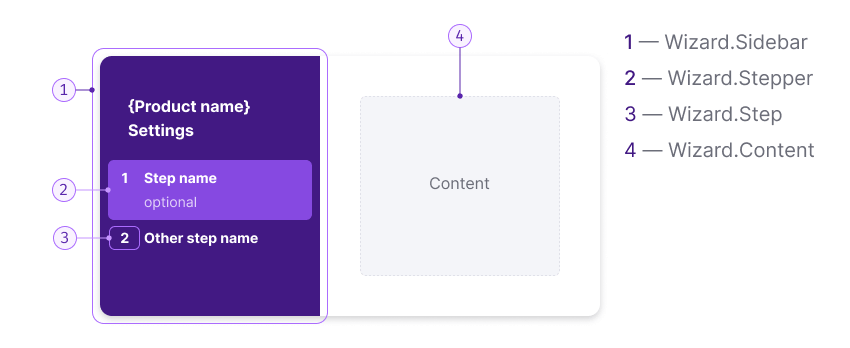
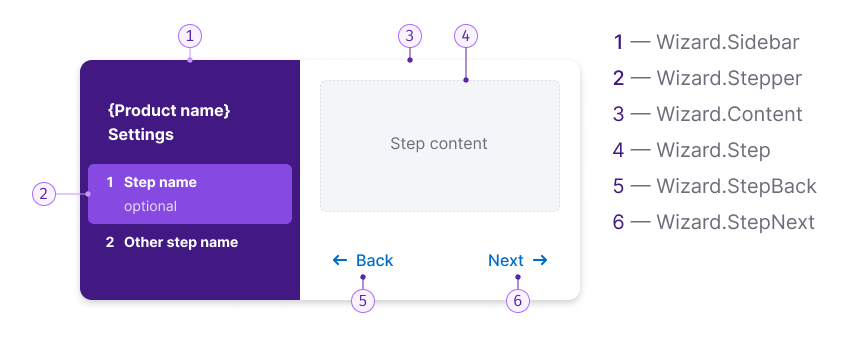
[docs] Updated Wizard examples and docs

diff --git a/website/docs/components/wizard/examples/custom_step.tsx b/website/docs/components/wizard/examples/custom_step.tsx
@@ -3,24 +3,25 @@ import Wizard from 'intergalactic/wizard';
 import Button from 'intergalactic/button';
 import { Text } from 'intergalactic/typography';
 import { Flex } from 'intergalactic/flex-box';
-import ArrowRight from 'intergalactic/icon/ArrowRight/m';
-import ArrowLeft from 'intergalactic/icon/ArrowLeft/m';
 import Input from 'intergalactic/input';
 
 const Step1 = React.forwardRef(function (_props, ref: React.Ref<HTMLDivElement>) {
   return (
-    <Flex ref={ref} direction='column'>
-      <Input mb={4}>
-        <Input.Value placeholder='Your name' />
+    <Flex ref={ref} direction='column' gap={4}>
+      <Text size={500} tag='h3'>
+        Keywords
+      </Text>
+      <Input>
+        <Input.Value placeholder='Keyword 1' />
       </Input>
       <Input>
-        <Input.Value placeholder='Your email' />
+        <Input.Value placeholder='Keyword 2' />
       </Input>
     </Flex>
   );
 });
 
-const steps = [{ title: 'Step 1' }, { title: 'Step 2' }, { title: 'Step 3' }];
+const steps = [{ title: 'Keywords' }, { title: 'Location' }, { title: 'Schedule' }];
 
 const Demo = () => {
   const [step, setStep] = React.useState(1);
@@ -31,16 +32,16 @@ const Demo = () => {
   return (
     <>
       <Button onClick={handleOpen}>Open modal</Button>
-      <Wizard visible={visible} step={step} w={600} onClose={handleClose}>
-        <Wizard.Sidebar title='Header'>
+      <Wizard visible={visible} step={step} w={600} h={400} onClose={handleClose}>
+        <Wizard.Sidebar title='Site Audit Settings'>
           <Wizard.Stepper step={1} onActive={setStep}>
-            Step 1
+            {steps[0].title}
           </Wizard.Stepper>
           <Wizard.Stepper step={2} onActive={setStep}>
-            Step 2
+            {steps[1].title}
           </Wizard.Stepper>
           <Wizard.Stepper step={3} onActive={setStep}>
-            Step 3
+            {steps[2].title}
           </Wizard.Stepper>
         </Wizard.Sidebar>
         <Wizard.Content tag={Flex} direction='column' justifyContent='space-between'>
@@ -51,17 +52,17 @@ const Demo = () => {
             }}
           </Wizard.Step>
           <Wizard.Step step={3}>
-            <Text size={400} fontWeight={500}>
+            <Text size={500} tag='h3'>
               Final step
             </Text>
             <Text tag='p' mt={2}>
               Congratulations on passing all the steps!
             </Text>
           </Wizard.Step>
-          <Flex justifyContent='space-between' w='100%' mt={5}>
+          <Flex mt={5}>
             {step > 1 && <Wizard.StepBack onActive={setStep} stepName={steps[step - 2].title} />}
             {step !== steps.length && (
-              <Wizard.StepNext onActive={setStep} stepName={steps[step].title} />
+              <Wizard.StepNext ml='auto' onActive={setStep} stepName={steps[step].title} />
             )}
           </Flex>
         </Wizard.Content>

diff --git a/website/docs/components/wizard/examples/basic_example.tsx b/website/docs/components/wizard/examples/basic_example.tsx
@@ -2,12 +2,13 @@ import React from 'react';
 import Wizard from 'intergalactic/wizard';
 import Button from 'intergalactic/button';
 import { Flex } from 'intergalactic/flex-box';
+import { Text } from 'intergalactic/typography';
 
-const steps = [{ title: 'Step 1' }, { title: 'Step 2' }, { title: 'Step 3' }];
+const steps = [{ title: 'Location' }, { title: 'Keywords' }, { title: 'Schedule' }];
 
 const Demo = () => {
   const [step, setStep] = React.useState(1);
-  const [visible, setVisible] = React.useState(true);
+  const [visible, setVisible] = React.useState(false);
   const handleOpen = () => setVisible(true);
   const handleClose = () => setVisible(false);
 
@@ -15,25 +16,37 @@ const Demo = () => {
     <>
       <Button onClick={handleOpen}>Open modal</Button>
       <Wizard visible={visible} step={step} w={600} onClose={handleClose}>
-        <Wizard.Sidebar title='Header'>
+        <Wizard.Sidebar title='Site Audit Settings'>
           <Wizard.Stepper step={1} onActive={setStep} completed>
-            Step 1
+            {steps[0].title}
           </Wizard.Stepper>
           <Wizard.Stepper step={2} onActive={setStep}>
-            Step 2
+            {steps[1].title}
           </Wizard.Stepper>
           <Wizard.Stepper step={3} onActive={setStep}>
-            Step 3
+            {steps[2].title}
           </Wizard.Stepper>
         </Wizard.Sidebar>
         <Wizard.Content tag={Flex} direction='column' justifyContent='space-between'>
-          <Wizard.Step step={1}>Step 1</Wizard.Step>
-          <Wizard.Step step={2}>Step 2</Wizard.Step>
-          <Wizard.Step step={3}>Step 3</Wizard.Step>
-          <Flex justifyContent='space-between' w='100%' mt={5}>
+          <Wizard.Step step={1}>
+            <Text size={500} tag={'h3'}>
+              {steps[0].title}
+            </Text>
+          </Wizard.Step>
+          <Wizard.Step step={2}>
+            <Text size={500} tag={'h3'}>
+              {steps[1].title}
+            </Text>
+          </Wizard.Step>
+          <Wizard.Step step={3}>
+            <Text size={500} tag={'h3'}>
+              {steps[2].title}
+            </Text>
+          </Wizard.Step>
+          <Flex mt={5}>
             {step > 1 && <Wizard.StepBack onActive={setStep} stepName={steps[step - 2].title} />}
             {step !== steps.length && (
-              <Wizard.StepNext onActive={setStep} stepName={steps[step].title} />
+              <Wizard.StepNext ml={'auto'} onActive={setStep} stepName={steps[step].title} />
             )}
           </Flex>
         </Wizard.Content>

diff --git a/website/docs/components/wizard/examples/custom_stepper.tsx b/website/docs/components/wizard/examples/custom_stepper.tsx
@@ -3,8 +3,6 @@ import Wizard from 'intergalactic/wizard';
 import Button from 'intergalactic/button';
 import { Text } from 'intergalactic/typography';
 import { Flex } from 'intergalactic/flex-box';
-import ArrowRight from 'intergalactic/icon/ArrowRight/m';
-import ArrowLeft from 'intergalactic/icon/ArrowLeft/m';
 import Input from 'intergalactic/input';
 import Radio, { RadioGroup } from 'intergalactic/radio';
 
@@ -34,10 +32,10 @@ const Demo = () => {
     <>
       <Button onClick={handleOpen}>Open modal</Button>
       <Wizard visible={visible} step={step} w={600} onClose={handleClose}>
-        <Wizard.Sidebar title='Header'>
+        <Wizard.Sidebar title='Site Audit Settings'>
           <Wizard.Stepper step={1} onActive={setStep}>
             Personal
-            <Text color='#FFFFFF95' tag='div'>
+            <Text color='text-secondary-invert' fontWeight={400} tag='div'>
               optional
             </Text>
           </Wizard.Stepper>
@@ -46,7 +44,7 @@ const Demo = () => {
           </Wizard.Stepper>
           <Wizard.Stepper step={3} onActive={setStep} number={2.1}>
             Import source
-            <Text color='#FFFFFF95' tag='div'>
+            <Text color='text-secondary-invert' fontWeight={400} tag='div'>
               {value === '' ? 'Not selected' : value}
             </Text>
           </Wizard.Stepper>
@@ -74,12 +72,14 @@ const Demo = () => {
               </Radio>
             </RadioGroup>
           </Wizard.Step>
-          <Flex justifyContent='space-between' w='100%' mt={5}>
+          <Flex mt={5}>
             {step > 1 && (
               <Wizard.StepBack onActive={setStep}>{steps[step - 2].title}</Wizard.StepBack>
             )}
             {step !== steps.length && (
-              <Wizard.StepNext onActive={setStep}>{steps[step].title}</Wizard.StepNext>
+              <Wizard.StepNext ml='auto' onActive={setStep}>
+                {steps[step].title}
+              </Wizard.StepNext>
             )}
           </Flex>
         </Wizard.Content>

diff --git a/website/docs/components/wizard/wizard-a11y.md b/website/docs/components/wizard/wizard-a11y.md
@@ -10,11 +10,11 @@ tabs: Design('wizard'), A11y('wizard-a11y'), API('wizard-api'), Example('wizard-
 
 Table: Keyboard support
 
-| Key           | Function                                       |
-| ------------- | ---------------------------------------------- |
-| `Tab`         | Moves focus to the next focusable element.     |
-| `Shift + Tab` | Moves focus to the previous focusable element. |
-| `Esc`         | Closes the modal window.                       |
+| Key                               | Function                                       |
+| --------------------------------- | ---------------------------------------------- |
+| `Tab`, <nobr>`Shift + Tab`</nobr> | Moves focus to the next (or previous) focusable element. |
+| `Enter`, `Space`                  | If a `Stepper` is focused, activates it and switches to the corresponding step. |
+| `Esc`                             | Closes the wizard.                             |
 
 See detailed information about the keyboard support for the all form elements in the [Keyboard control guide](/core-principles/a11y/a11y-keyboard).
 
@@ -24,11 +24,24 @@ The list below describes roles and attributes that component already has.
 
 Table: Roles and attributes
 
-| Role       | Attribute               | Element | Usage                                                                                                                                     |
-| ---------- | ----------------------- | ------- | ----------------------------------------------------------------------------------------------------------------------------------------- |
-| `menu`     |                         | `div`   | It's a type of composite widget that offers a list of choices to the user.                                                                |
-| `menuitem` |                         | `div`   | Indicates the element is an option in a set of choices contained by a menu or menubar.                                                    |
-|            | `aria-current="active"` | `div`   | `aria-current` state on an element indicates that this element represents the current item within a container or set of related elements. |
+| Component         | Attribute                             | Usage                                                                                                                                     |
+| ----------------- | ------------------------------------- | ----------------------------------------------------------------------------------------------------------------------------------------- |
+| `Wizard`          | `aria-labelledby="IDREF"`             | Defines an accessible name for the dialog. Automatically populated from the title in the `Wizard.Sidebar`. |
+| `Wizard`          | `role="dialog"`, `aria-modal="true"`  | Identifies the element as a modal dialog. Inherited from [Modal](../modal/modal-a11y). |
+| `Modal.Close`     | `aria-label="Close"`                  | Defines an accessible name for the **Close** button. Inherited from [Modal](../modal/modal-a11y). |
+| <nobr>`Wizard.Sidebar > div`</nobr> | `role="tablist"`    | Identifies the element as a set of tabs. |
+| <nobr>`Wizard.Sidebar > div`</nobr> | `aria-orientation="vertical"`  | Indicates that the orientation of the tablist is vertical, helping to use the appropriate keys for navigation. |
+| `Wizard.Stepper`  | `role="tab"`                          | Identifies the element as a tab. |
+| `Wizard.Stepper`  | `aria-selected="true/false"`          | Indicates whether the tab is active. |
+| `Wizard.Stepper`  | `aria-controls="IDREF"`               | Refers to the content area that corresponds to this tab. |
+| `Wizard.Content`  | `role="tabpanel"`                     | Identifies the element as a content area associated with a tab. |
+| `Wizard.Content`  | `aria-labelledby="IDREF"`             | Defines an accessible name for the content area by referring to the corresponding tab. |
+| `Wizard.StepBack` | `aria-label="Back to {Step}"`         | Defines an accessible name for the button that goes to the previous step. |
+| `Wizard.StepNext` | `aria-label="Go to {Step}"`           | Defines an accessible name for the button that goes to the next step. |
+
+## Considerations for developers
+
+Ensure the proper heading hierarchy in the `Wizard`. The `Wizard` starts with an `h2` heading by default, so each step should start with an `h3` heading, and so on. Refer to the [example](./wizard-code.md#basic-example) for details.
 
 ## Resources
 

diff --git a/website/docs/components/wizard/wizard.md b/website/docs/components/wizard/wizard.md
@@ -16,7 +16,7 @@ tabs: Design('wizard'), A11y('wizard-a11y'), API('wizard-api'), Example('wizard-
 
 ### When don’t use wizard
 
-- Avoid using wizards for educational purposes, as they focus on task completion rather than providing additional information for learning. Instead, use components like [FeaturePopover](/components/feature-popover/feature-popover), `Info` icons, [hint links](/style/typography/typography#hints_hint_links), or videos for education.
+- Avoid using wizards for educational purposes, as they focus on task completion rather than providing additional information for learning. Instead, use components like [FeaturePopover](/components/feature-popover/feature-popover), [Informers](../../patterns/informer/informer.md), [hint links](../button/button.md#button-with-link-styles), or videos for education.
 - Advanced users may find predefined steps in a wizard restrictive. Consider using wizards for audiences that would benefit from step-by-step guidance.
 
 ## Component composition
@@ -25,20 +25,34 @@ tabs: Design('wizard'), A11y('wizard-a11y'), API('wizard-api'), Example('wizard-
 
 Component consists of the following:
 
-- `Wizard.Sidebar`
-- `Wizard.Stepper`
-- `Wizard.Content`
-- `Wizard.Step`
+1. `Wizard.Sidebar`
+2. `Wizard.Stepper`
+3. `Wizard.Content`
+4. `Wizard.Step`
+5. `Wizard.StepBack`
+6. `Wizard.StepNext`
 
-## Sidebar styles
+## Stepper styles
 
-Table: Wizard sidebar styles
+If a `Stepper` has optional text, it should have the following styles:
 
-|           | Appearance example |
-| --------- | ------------------ |
-| Sidebar styles | ![max-width: 220px; padding: 40px 8px; color: var(--white); background-color: var(--violet-600); font-size: var(--fs-300); line-height: var(--lh-300); font-weight: 700;](static/steps-paddings-margins.png) |
-| Step styles    | ![20px * 24px](static/step-size.png) |
-| Stepper styles | ![padding: 8px 12px; color: var(--white); font-size: var(--fs-200); line-height: var(--lh-200); font-weight: 700;](static/stepper-paddings-margins.png) If a stepper has optional text or a sub-step, they have the following styles: ![margin-top: 4px; color: color-mod(var(--white) a(75%)); font-size: var(--fs-100); line-height: var(--lh-100); font-weight: 400;](static/substep-paddings-margins.png) |
+```CSS
+color: var(--intergalactic-text-secondary-invert);
+margin-top: var(--intergalactic-spacing-1x);
+```
+
+Sub-steps have the following styles:
+
+```CSS
+color: var(--intergalactic-text-primary-invert);
+font-weight: var(--intergalactic-regular);
+margin-top: var(--intergalactic-spacing-1x);
+margin-bottom: var(--intergalactic-spacing-1x);
+padding-top: var(--intergalactic-spacing-1x);
+padding-bottom: var(--intergalactic-spacing-1x);
+```
+
+![](static/substep-paddings-margins.png)
 
 ## Stepper states
 
@@ -58,7 +72,6 @@ Table: Wizard content area styles
 
 |          | Appearance example |
 | -------- | ------------------ |
-| Content area paddings | ![padding: 40px; background-color: var(--white); color: var(--gray-800); font-size: var(--fs-200); line-height: var(--lh-200); font-weight: 400;](static/wizard-paddings.png) |
 | Header styles | ![margin-bottom: 20px; color: var(--gray-800); font-size: var(--fs-500); line-height: var(--lh-500); font-weight: 700;](static/header.png) |
 | Footer styles | For basic controls use L size. ![margin-bottom: 20px; color: var(--gray-800); font-size: var(--fs-500); line-height: var(--lh-500);](static/footer.png) |
 
@@ -68,7 +81,7 @@ Table: Wizard content area styles
 - Users can move between interactive elements within the window using the `Tab` key.
 - The Wizard can be closed with the `Esc` key.
 
-When the Wizard closes, the focus should return to the page. Refer to [Accessibility](/core-principles/a11y/a11y) guidelines.
+When the Wizard closes, the focus should return to the page. Refer to [Accessibility](./wizard-a11y.md) guidelines.
 
 ## Wizard in Modal
 
@@ -85,7 +98,7 @@ max-height: 700px;
 
 ### Collapsing panel with steps on screen less than 1060px
 
-Collapse the panel to 44px, leaving only the step numbers. On hover per step, show the name of the step.
+Collapse the panel to 44px, leaving only the step numbers. When hovering a step number, show the name of the step.
 
 ![](static/collapsing-stepper1.png)
 

diff --git a/website/docs/components/wizard/wizard-api.md b/website/docs/components/wizard/wizard-api.md
@@ -30,6 +30,25 @@ import Wizard from 'intergalactic/wizard';
 
 <TypesView type="WizardStepProps" :types={...types} />
 
+## Wizard.StepBack
+
+```jsx
+import Wizard from 'intergalactic/wizard';
+<Wizard.StepBack />;
+```
+
+<TypesView type="WizardStepBackProps" :types={...types} />
+
+## Wizard.StepNext
+
+```jsx
+import Wizard from 'intergalactic/wizard';
+<Wizard.StepNext />;
+```
+
+<TypesView type="WizardStepNextProps" :types={...types} />
+
+
 ## Wizard.Stepper
 
 ```jsx
